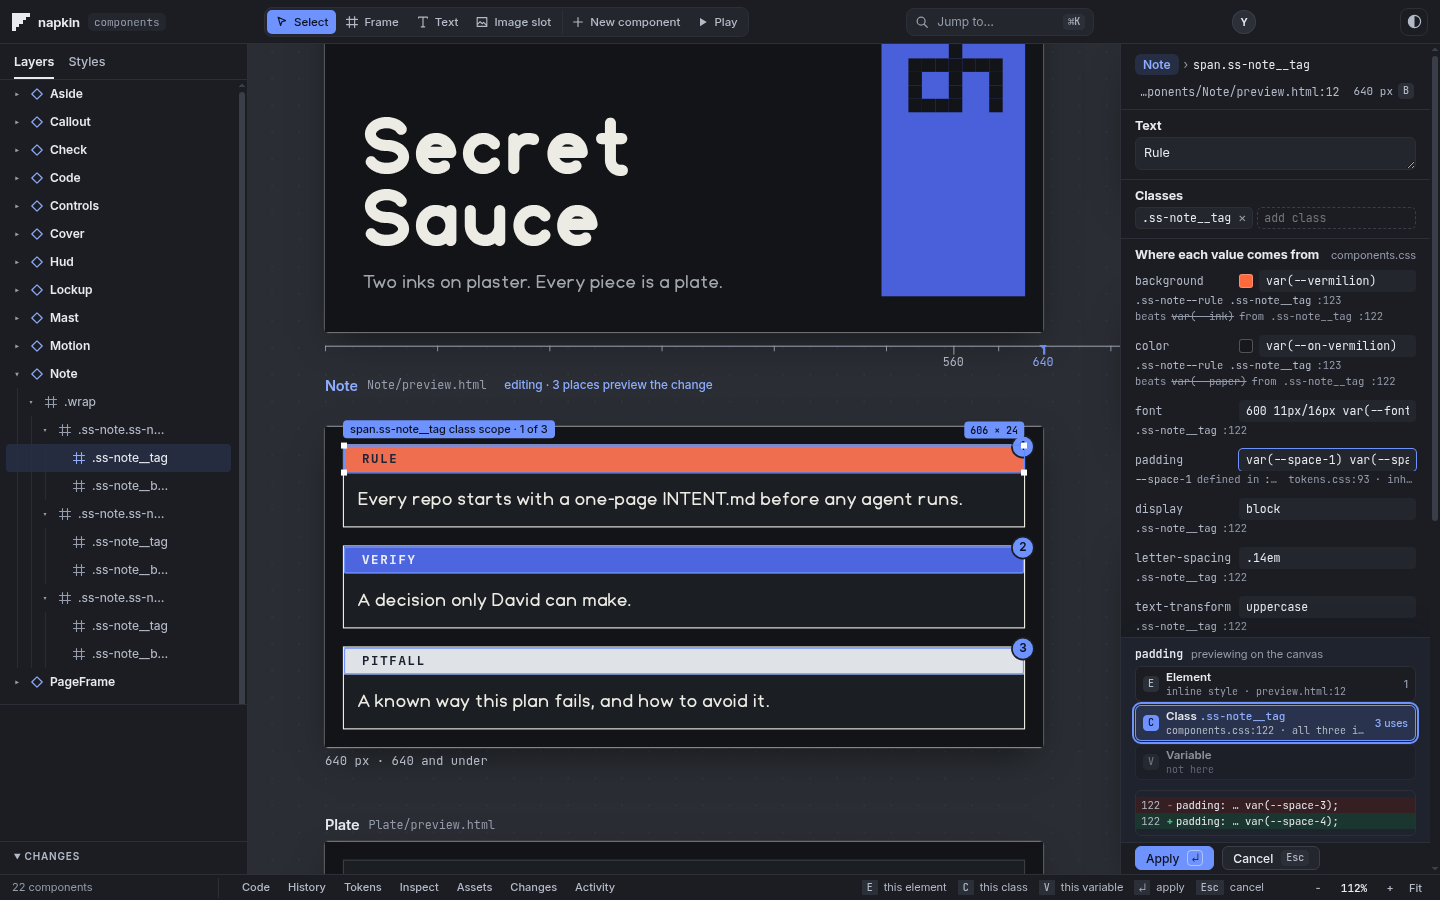
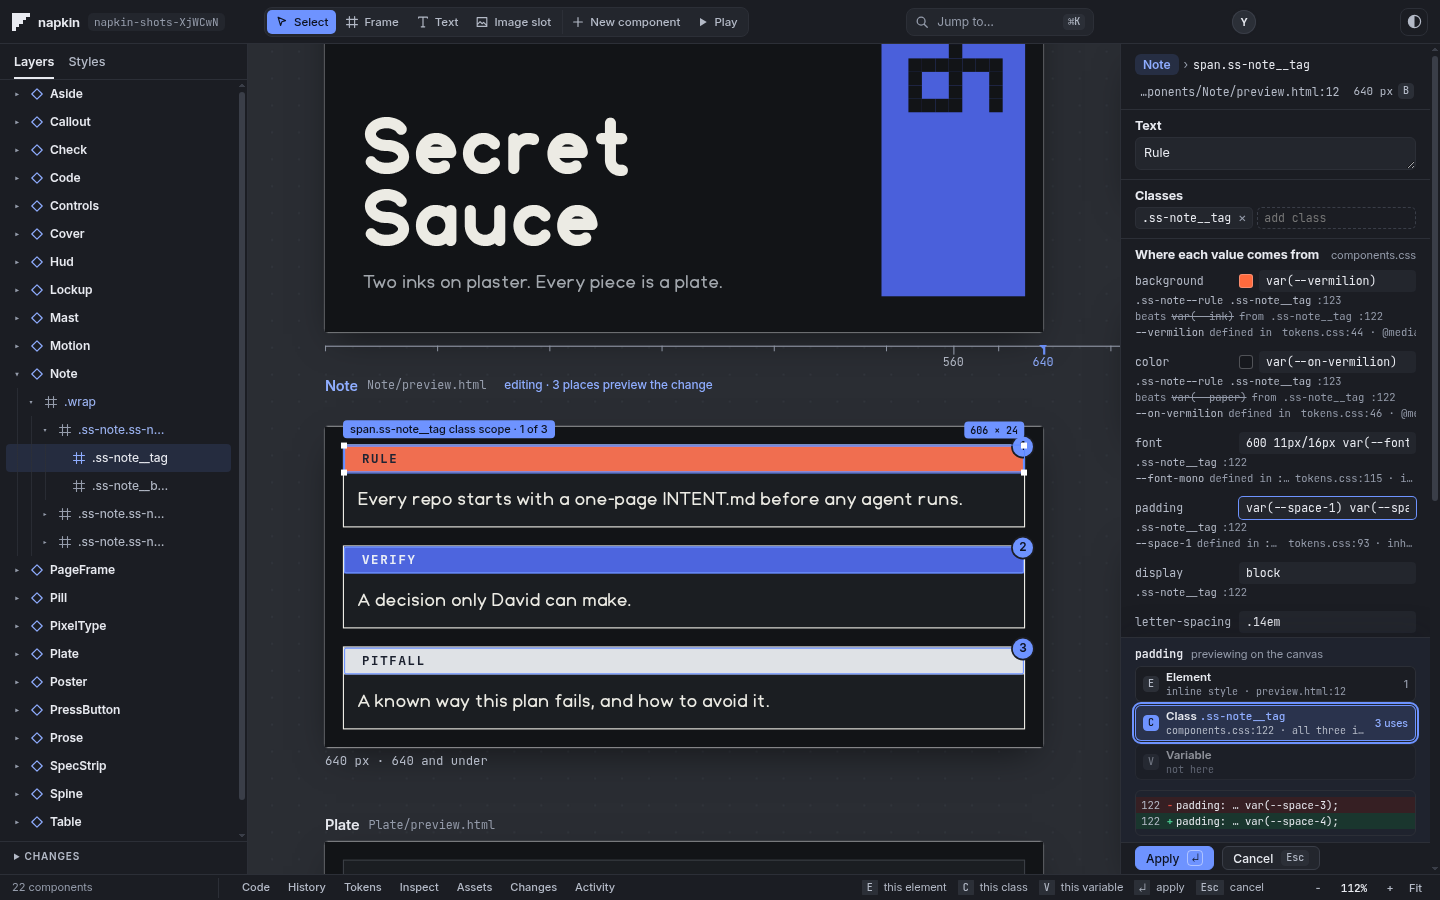
Smoothing round 2: tests for themes, refusal path, small items; computed classes said first; evidence

diff --git a/test/smooth/round2.test.js b/test/smooth/round2.test.js
@@ -184,3 +184,72 @@ test('14. a gap is a gap and handed-out space is space; Alt+Shift measures the p
   } finally { await a.close(); }
 });
 void writeFileSync;
+
+test('11. V on a variable with a dark definition lists both; ticking both writes both', { timeout: 60000 }, async () => {
+  const a = await open();
+  try {
+    const note = await a.node(NOTE, (n) => /ss-note--rule/.test(n.attrs.class || ''));
+    await a.select(NOTE, note.node);
+    await a.typeIn('#pv-background', '#fafafa'); await sleep(200);
+    await a.q(`napkin.inspector.scope('variable')`);
+    await a.browser.waitFor(`document.querySelectorAll('#var-themes input').length === 2`, 8000);
+    assert.equal(await a.q(`document.querySelectorAll('#var-themes input:checked').length`), 1, 'the one in force here, by default');
+    await a.q(`document.querySelector('#var-themes input:not(:checked)').click()`); await sleep(300);
+    await a.q(`napkin.inspector.apply()`); await sleep(600);
+    const t = readFileSync(join(a.dir, 'tokens.css'), 'utf8');
+    assert.equal(t.match(/--paper: #fafafa/g).length, 2, t);
+  } finally { await a.close(); }
+});
+
+test('15. Apply keeps the keyboard on the value; Cmd-K contrast toggles; the chip names the folder; scrubbing says it is older; B B Esc keeps the selection', { timeout: 90000 }, async () => {
+  const a = await open();
+  try {
+    const tag = await a.node(NOTE, (n) => n.attrs.class === 'ss-note__tag');
+    await a.select(NOTE, tag.node);
+    assert.equal(await a.q(`document.querySelector('#folder').textContent`), a.dir.split('/').pop());
+    assert.equal(await a.q(`napkin.quick.search('contrast').some((i) => i.kind === 'property')`), false, 'contrast is the action, not the button');
+    await a.typeIn('#pv-letter-spacing', '.3em');
+    await a.browser.waitFor(`!!document.querySelector('#doc-staged .opt.on')`);
+    await a.io.key('Enter');
+    await a.browser.waitFor(`document.activeElement?.id === 'pv-letter-spacing' && !document.querySelector('#doc-staged .scope')`, 8000);
+    await sleep(800);
+    assert.notEqual(await a.q(`document.activeElement.tagName`), 'BODY', 'focus does not fall to the page');
+    await a.q(`document.querySelector('#stage').focus()`);
+    await a.io.key('h', { code: 'KeyH' });
+    await a.browser.waitFor(`napkin.time.state().tiles.length >= 2`, 8000);
+    await a.q(`napkin.time.pick(0)`);
+    await a.browser.waitFor(`!document.querySelector('#time-older').hidden`, 8000);
+    for (let i = 0; i < 4; i++) { await a.io.key('b', { code: 'KeyB' }); await sleep(250); }
+    await a.io.key('Escape'); await sleep(200);
+    assert.equal(await a.q(`document.querySelector('#time-older').hidden`), true);
+    assert.ok(await a.q(`!!napkin.state.selection`), 'the selection stays');
+    assert.ok(await a.q(`!!document.querySelector('#doc-skip')`));
+  } finally { await a.close(); }
+});
+
+test('6. a refused restore in the strip says what to do and offers the one file; 13. computed classes are said honestly', { timeout: 90000 }, async () => {
+  const a = await open({ files: { ...FILES, 'Btn.tsx': 'function cn(...a){return a.join(" ")}\nconst v=()=>"x";\nexport function Btn(){ return <button className={cn(v())}>Go {typeof process}</button> }\n' } });
+  try {
+    const b = 'Btn.tsx#Btn';
+    await a.browser.waitFor(`/Go object/.test(napkin.stage.sections.get(${JSON.stringify(b)})?.docFrame?.doc()?.body?.innerText ?? '')`, 15000);
+    await a.q(`napkin.select({ component: ${JSON.stringify(b)}, node: napkin.stage.rootNode(${JSON.stringify(b)}), variant: {} })`); await sleep(400);
+    assert.match(await a.q(`document.querySelector('#doc-values').innerText`), /worked out in code/);
+    const tag = await a.node(NOTE, (n) => n.attrs.class === 'ss-note__tag');
+    // a change of Pill's rule by hand, then Note's own edit; restoring Note's oldest version is refused
+    await a.q(`fetch('/api/component/' + encodeURIComponent(${JSON.stringify(NOTE)}) + '/film').then((r) => r.text())`);
+    await a.select(PILL, (await a.node(PILL, (n) => n.attrs.class === 'ss-pill')).node);
+    writeFileSync(join(a.dir, 'components.css'), css(a).replace('.ss-note__body { padding: 13px;', '.ss-note__body { padding: 14px;').replace('.ss-pill { display: inline-block;', '.ss-pill { display: block;')); await sleep(700);
+    await a.select(NOTE, tag.node);
+    await a.q(`napkin.time.open()`);
+    await a.browser.waitFor(`napkin.time.state().tiles.length >= 2`, 8000);
+    await a.q(`napkin.time.pick(0)`); await sleep(300);
+    await a.q(`napkin.time.restore()`);
+    await a.browser.waitFor(`!document.querySelector('#time-refusal').hidden`, 8000);
+    const say = await a.q(`document.querySelector('#time-refusal').innerText`);
+    assert.match(say, /Restore a newer version/); assert.match(say, /Restore only preview\.html/);
+    assert.doesNotMatch(say, /Next:/);
+    const before = css(a);
+    await a.q(`document.querySelector('#time-own').click()`); await sleep(500);
+    assert.equal(css(a), before, 'the shared sheet is not touched');
+  } finally { await a.close(); }
+});

diff --git a/public/canvas/doc-panel.js b/public/canvas/doc-panel.js
@@ -274,7 +274,7 @@ export async function renderDocPanel(ctx, el, sel, comp) {
           <input id="doc-class-add" data-key="class-add" placeholder="add class" aria-label="Add a class" spellcheck="false"></div>
       </section>
       <section class="dsec" id="doc-values"><h3>Where each value comes from${mainFile ? `<span class="where hfile">${esc(mainFile)}</span>` : ''}</h3>
-        ${props.length ? props.map(valueRow).join('') : explain.inherited.length ? '<p class="hint">Nothing sets a value on this element itself.</p>' : computed ? `<p class="hint">Its classes are worked out in code: <code>${esc(computed)}</code> at line ${node.line} of ${esc(base(comp.path))}. No stylesheet rule of this folder matches it here. Change them in that file.</p>` : '<p class="hint">Nothing styles this element yet.</p>'}
+        ${props.length ? props.map(valueRow).join('') : computed ? `<p class="hint">Its classes are worked out in code: <code>${esc(computed)}</code> at line ${node.line} of ${esc(base(comp.path))}. No stylesheet rule of this folder matches it here. Change them in that file.</p>` : explain.inherited.length ? '<p class="hint">Nothing sets a value on this element itself.</p>' : '<p class="hint">Nothing styles this element yet.</p>'}
       </section>
       ${explain.inherited.length ? `<section class="dsec soft" id="doc-inherited" data-soft="inherited"${soft('inherited')}><h3><button type="button" class="soft-h" aria-expanded="${softOpen('inherited')}">Inherited <span class="where">${explain.inherited.length} from the elements around it</span></button></h3><div class="soft-b">${explain.inherited.map(inheritedRow).join('')}</div></section>` : ''}
       <details class="dsec fold" data-fold="inline"${fold('inline', inlineDecls.length > 0)}><summary><h3>Inline style <span class="where">${inlineDecls.length ? `${inlineDecls.length} set` : 'none yet'}</span></h3></summary>

diff --git a/test/CONTRACT.md b/test/CONTRACT.md
@@ -427,3 +427,9 @@ What `test/stage/stage.test.js` and other lanes can rely on:
 - **Overlays:** below 45% zoom contrast and focus-order labels are drawn only for failures and the selected frame; the counts stay whole (`napkin.inspector.read()`).
 - **Restore:** a whole rule nothing draws, added since the version, stays in the file (`kept` in the reply); a value changed in a rule nothing draws is refused by name (409).
 - **Render pool:** the other pages of the pool open behind the first render.
+
+## Smoothing round 2
+- `POST /api/component/<id>/film/restore { frame, only: 'own' }` puts back only the component's own file. A sheet is restored by splicing the differing rules into the file as it is now (`spliceSheet` in `src/doc/history.js`); null refuses. `#time-refusal`, `#time-own`, `#time-older`.
+- `ctx.keyGuard`: an open picker has the keyboard (`legend.js`, registered first). Escape ends a staged edit wherever focus is. `dialog.ivask` is non-modal and previews.
+- `#var-themes input[data-def]`: which definitions of a variable a staged value goes to. `napkin.stage.rootNode(id)`, `napkin.stage.rearrange(id)`, `napkin.play.replay()`. Frames nobody placed make way for a frame changing width and return. `GET /api/files` carries `folder`.
+- Alt+Shift measures the parent; `.im-s` is space handed out by the layout, `.im-g` a gap the file sets. Layer tree of a file: open only on the path to the selection or by hand; runs of empty unnamed siblings are one row.
